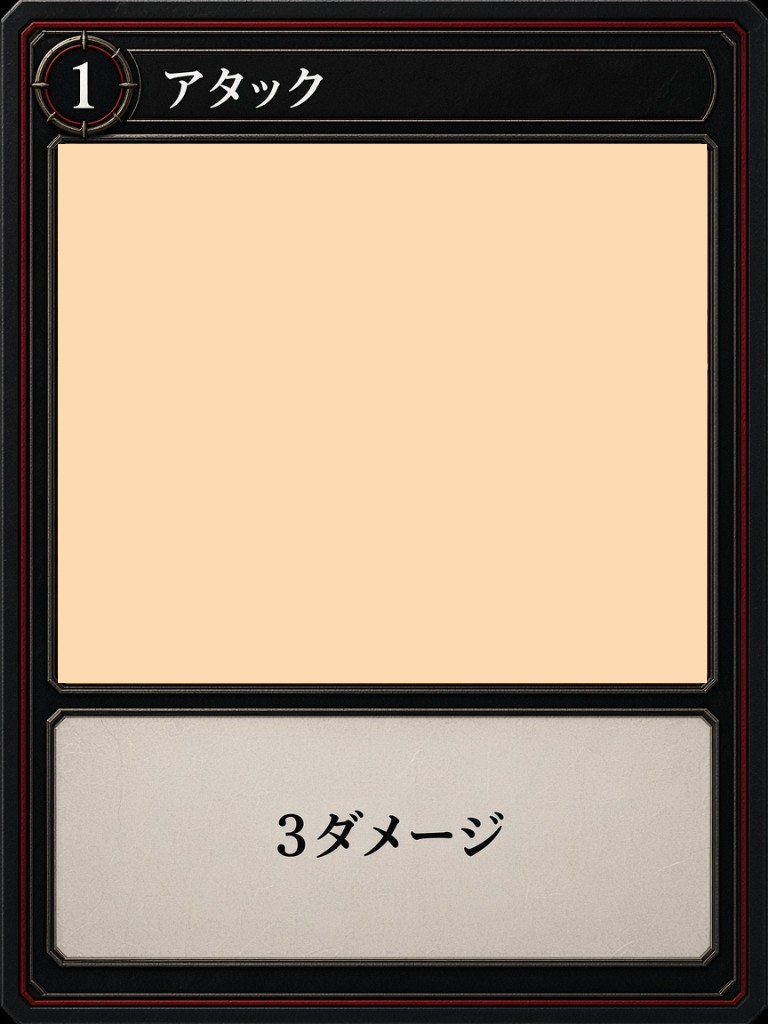
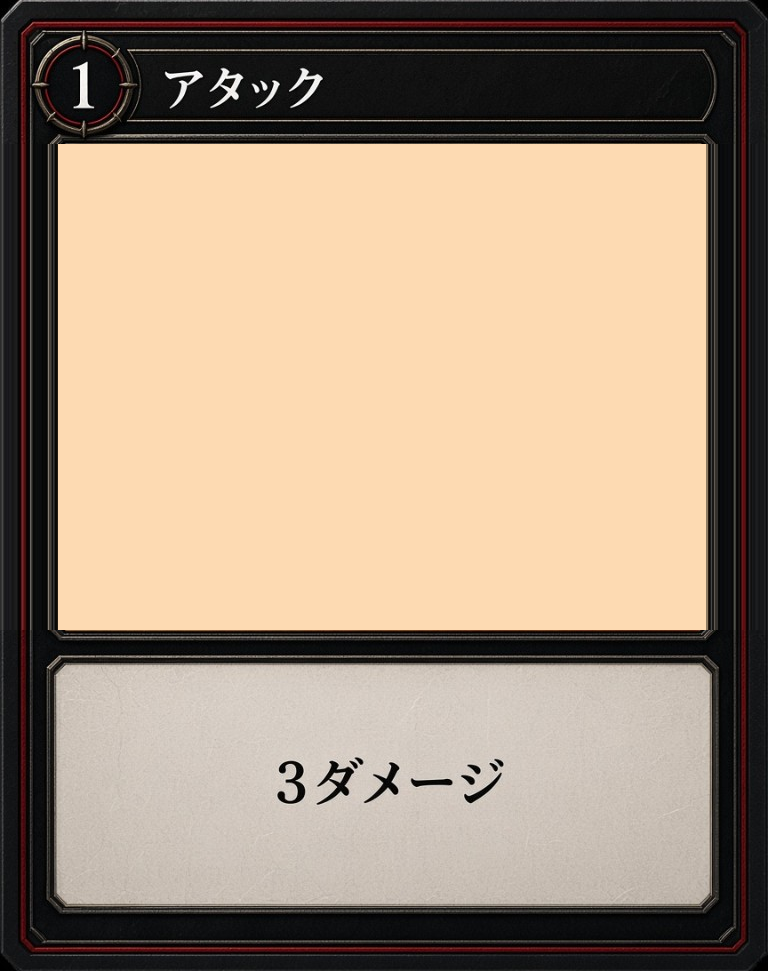
赤い仮カードの絵柄を横4縦3にする

diff --git a/index.html b/index.html
@@ -1341,6 +1341,7 @@
     /* 色ごとの空の枠。正本と同じ黒鉄。見本は金の唐草。名札・効果は薄く、絵柄の場所に点線 */
     .blank-grid { grid-template-columns: repeat(auto-fill, minmax(170px, 1fr)); }
     .blank-grid .card.preview { width: 100%; height: auto; cursor: default; }
+    .blank-grid img.style-red { width: 100%; height: auto; aspect-ratio: auto; object-fit: contain; }
     .blank-grid .card.preview:hover { transform: none; }
     .card.blank .nameplate .name, .card.blank .text .note, .card.blank .cost, .card.blank .rarity { opacity: 0.4; }
     .card.blank .art { display: grid; place-items: center; }
@@ -8708,7 +8709,7 @@
     function artZoomSide(name) {
       if (!name) return "";
       if (name === "card-style-red") {
-        return zoomSidePanel("攻撃（赤）", `<img class="art-zoom-img" src="card-style-red.png?v=1" alt="攻撃（赤）の仮カード。絵柄は空">`);
+        return zoomSidePanel("攻撃（赤）", `<img class="art-zoom-img" src="card-style-red.png?v=2" alt="攻撃（赤）の仮カード。絵柄は空">`);
       }
       const card = albumCatalog().find((item) => item.name === name) || { name, ...(CARDS[name] || WARRIOR[name] || COMMON[name] || {}) };
       const src = CARD_ART[name] || "";
@@ -9196,7 +9197,7 @@
       return BLANK_FRAMES.map((frame) => {
         if (frame.kind === "attack") {
           const on = albumZoom === "card-style-red";
-          return `<figure class="${on ? "on" : ""}"><button type="button" class="sheet-zoom-btn" data-art-zoom="card-style-red" aria-label="攻撃（赤）の仮カードを拡大" aria-pressed="${on ? "true" : "false"}"><img class="back-ref" src="card-style-red.png?v=1" alt="攻撃（赤）の仮カード。絵柄は空"></button><figcaption>${esc(frame.label)}</figcaption></figure>`;
+          return `<figure class="${on ? "on" : ""}"><button type="button" class="sheet-zoom-btn" data-art-zoom="card-style-red" aria-label="攻撃（赤）の仮カードを拡大" aria-pressed="${on ? "true" : "false"}"><img class="style-red" src="card-style-red.png?v=2" alt="攻撃（赤）の仮カード。絵柄は空"></button><figcaption>${esc(frame.label)}</figcaption></figure>`;
         }
         const face = cardFace(
           { name: "カード名", cost: "0", text: "効果", stars: 3, kind: frame.kind === "foe" ? "skill" : frame.kind },
